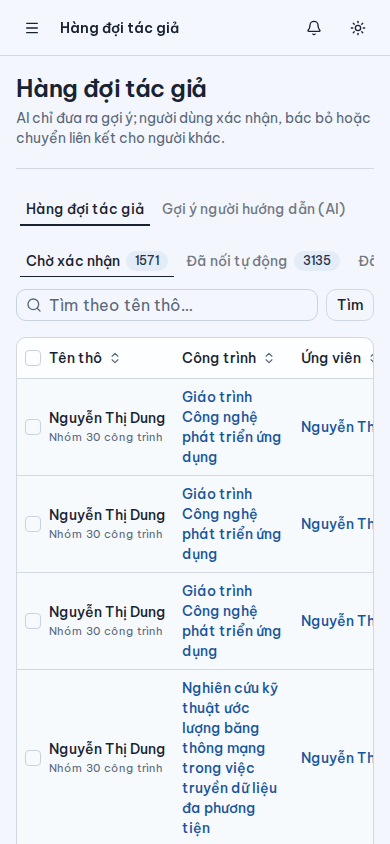
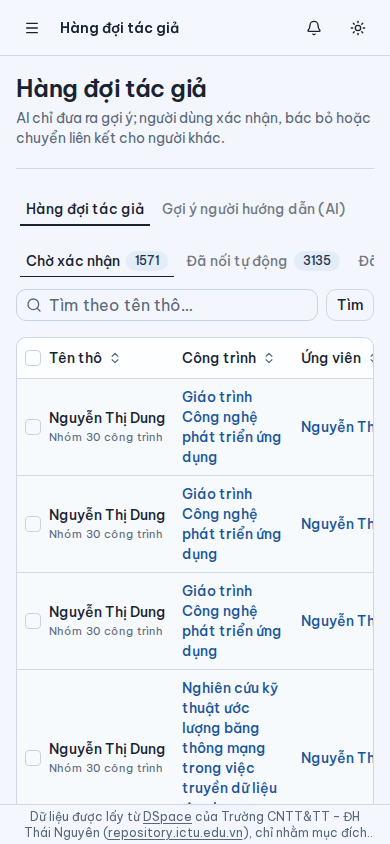
chore(release): 0.6.0

Changed region(s): [[0.0615, 0.955, 0.9538, 1.0]]

diff --git a/README.md b/README.md
@@ -333,7 +333,7 @@ trúc máy chủ, secrets GitHub cần tạo, quy trình phát hành và quay lu
       APA/IEEE/BibTeX, lý lịch khoa học in được, mới cập nhật + RSS, cảnh báo
       bất thường dữ liệu (K) — xem
       [docs/release-notes/v0.5.0.md](docs/release-notes/v0.5.0.md)
-- [ ] **0.6.0 đang chốt (lát cắt L)** — báo cáo kỳ đóng băng có phiên bản
+- [x] **0.6.0 đã phát hành (12/09, lát cắt L)** — báo cáo kỳ đóng băng có phiên bản
       (điểm BA "P"), thông báo trong ứng dụng (điểm BA "H"), góc nhìn theo
       khoa, sức khoẻ hệ thống mở rộng và `deploy/pipeline.sh` thay đường
       ống vận hành tay trên máy chủ — dự thảo ghi chú phát hành ở
@@ -347,7 +347,7 @@ trúc máy chủ, secrets GitHub cần tạo, quy trình phát hành và quay lu
 | 🎯 | [docs/BRD.md](docs/BRD.md) | Yêu cầu nghiệp vụ: 6 vấn đề đo được, YN-01..10, ràng buộc cuộc thi |
 | 📐 | [docs/SRS.md](docs/SRS.md) | Đặc tả phần mềm: FR theo giai đoạn, tích hợp AI, ma trận truy vết YN → FR → UC → US |
 | 🤖 | [docs/ai.md](docs/ai.md) | AI làm gì và không làm gì, ba nhà cung cấp, mô hình, thuật toán, giới hạn |
-| 🏷 | [docs/release-notes/v0.6.0.md](docs/release-notes/v0.6.0.md) | Dự thảo ghi chú phát hành bản đang chốt (lát cắt L); bản đã phát hành gần nhất: [v0.5.0](docs/release-notes/v0.5.0.md) (cũ hơn: [v0.4.0](docs/release-notes/v0.4.0.md), [v0.3.0](docs/release-notes/v0.3.0.md), [v0.2.0](docs/release-notes/v0.2.0.md), [v0.1.0](docs/release-notes/v0.1.0.md)) |
+| 🏷 | [docs/release-notes/v0.6.0.md](docs/release-notes/v0.6.0.md) | Ghi chú phát hành bản hiện tại (cũ hơn: [v0.5.0](docs/release-notes/v0.5.0.md), [v0.4.0](docs/release-notes/v0.4.0.md), [v0.3.0](docs/release-notes/v0.3.0.md), [v0.2.0](docs/release-notes/v0.2.0.md), [v0.1.0](docs/release-notes/v0.1.0.md)) |
 | 🛰 | [docs/deploy-prod.md](docs/deploy-prod.md) | Triển khai máy chủ thật: kiến trúc, secrets, quy trình phát hành, quay lui |
 | 📋 | [docs/ba/00-README.md](docs/ba/00-README.md) | Bộ tài liệu phân tích nghiệp vụ (BA) — 18 tệp |
 | 🗄 | [docs/ba/17-mo-hinh-du-lieu.md](docs/ba/17-mo-hinh-du-lieu.md) | Mô hình dữ liệu bản 0.1 cho lát cắt S + N + T-01/T-02 |

diff --git a/docs/release-notes/v0.6.0.md b/docs/release-notes/v0.6.0.md
@@ -1,8 +1,6 @@
 # ICTU-CRIS v0.6.0
 
-> Dự thảo — chưa gắn tag, đang chốt. Viết ngày 12/09/2026 trên `pyproject.toml` phiên bản
-> `0.6.0.dev0`; tag `v0.6.0` và ảnh `ghcr.io/maiychrus25/ictu-cris:0.6.0` (`:0.6.0-ai` kèm
-> thư viện AI) sẽ được đẩy khi phát hành chính thức.
+> Phát hành 12/09/2026. Tag `v0.6.0`; ảnh `ghcr.io/maiychrus25/ictu-cris:0.6.0` và `:0.6.0-ai` (kèm thư viện AI).
 
 Hệ thống thông tin nghiên cứu (CRIS) cho Trường CNTT&TT – ĐH Thái Nguyên: một nguồn sự
 thật cho dữ liệu công bố khoa học, mỗi con số truy ngược được về bản ghi gốc; AI gợi ý,
@@ -104,7 +102,9 @@ hiển thị `db`/`model`/`last_sync_age_h`/`version`; banner nhỏ toàn app kh
 - `python -m cris ai download` không còn cần kết nối cơ sở dữ liệu để chạy (fix trong lúc
   làm lát cắt L, xem "Đã sửa").
 
-## Đã sửa (Fixed)
+## Đã sửa
+
+- Footer nguồn dữ liệu (DSpace, mục đích học tập) cố định ở đáy khung nhìn trên mọi bố cục, không cuộn theo nội dung; nội dung được đệm đáy để không bị che. (Fixed)
 
 - `python -m cris ai download` trước đây đòi hỏi kết nối CSDL dù chỉ tải mô hình về đĩa —
   nay chạy được cả khi chưa có `DATABASE_URL`/CSDL sẵn sàng.

diff --git a/CHANGELOG.md b/CHANGELOG.md
@@ -5,6 +5,12 @@
 
 ## [Unreleased]
 
+## [0.6.0] - 2026-09-12
+
+### Fixed (giao diện)
+
+- Footer nguồn dữ liệu cố định ở đáy khung nhìn trên mọi bố cục (`frontend/components/data-notice-footer.tsx`).
+
 ### Added
 
 - Bản báo cáo kỳ đóng băng, có phiên bản (lát cắt L1, điểm BA "P"): `POST
@@ -462,7 +468,8 @@ sinh trong 11 phút trên CPU; đối chiếu một đề tài 3,25 s. Chi tiế
   hỗ trợ `DISTINCT` trong window function nên mọi lần mở hàng đợi đều lỗi 500.
   Thay bằng subquery gộp rồi nối lại theo tên thô (`cris/web/views_queue.py`).
 
-[Unreleased]: https://github.com/maiychrus25/ICTU-CRIS/compare/v0.5.0...HEAD
+[Unreleased]: https://github.com/maiychrus25/ICTU-CRIS/compare/v0.6.0...HEAD
+[0.6.0]: https://github.com/maiychrus25/ICTU-CRIS/releases/tag/v0.6.0
 [0.5.0]: https://github.com/maiychrus25/ICTU-CRIS/releases/tag/v0.5.0
 [0.4.0]: https://github.com/maiychrus25/ICTU-CRIS/releases/tag/v0.4.0
 [0.3.0]: https://github.com/maiychrus25/ICTU-CRIS/releases/tag/v0.3.0
